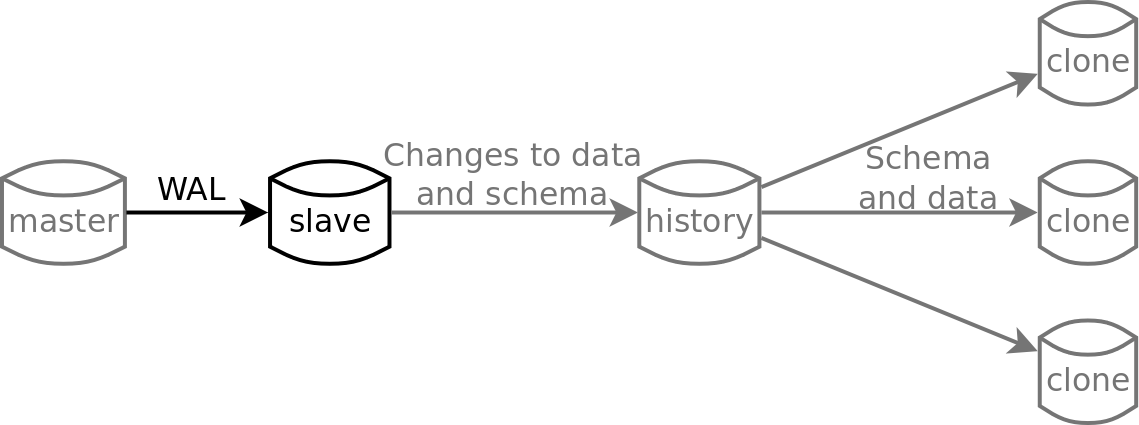
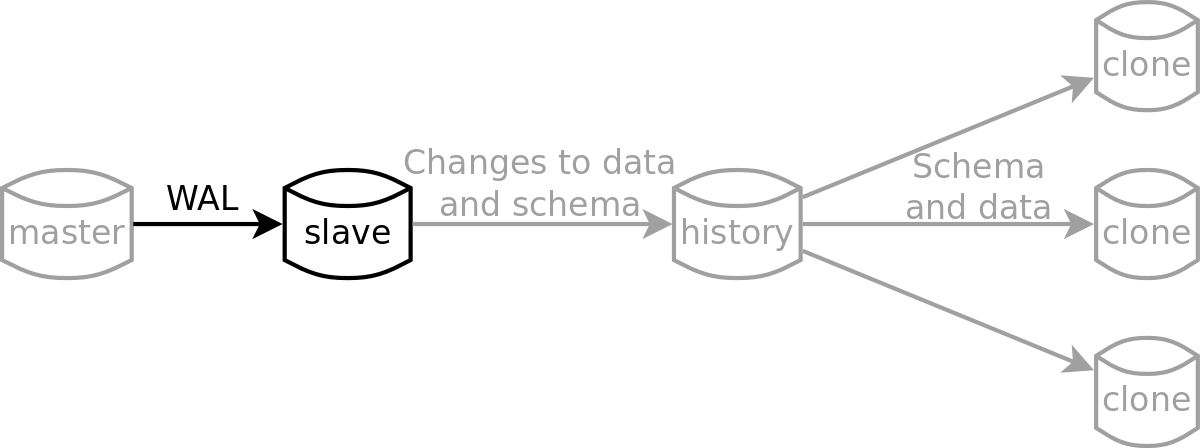
Fixing size, position and color of overview figs

diff --git a/architecture.tex b/architecture.tex
@@ -31,10 +31,10 @@ The reason for keeping old versions of the master database and the relationship 
 \section{The clone databases}
 \label{ch:architecture-clone-databases}
 
-\begin{wrapfigure}{r}{0.5\textwidth}
+\begin{wrapfigure}{r}{0.55\textwidth}
   \vspace{-20pt}
   \begin{center}
-    \includegraphics[width=0.48\textwidth]{img/architecture-clones}
+    \includegraphics[width=0.53\textwidth]{img/architecture-clones}
   \end{center}
   \vspace{-20pt}
   \caption{The clone part of the architecture}
@@ -75,10 +75,10 @@ The views, bookkeeping table, data tables and the view\_select function are desc
 \section{The history database}
 \label{ch:architecture-history-databases}
 
-\begin{wrapfigure}{r}{0.5\textwidth}
+\begin{wrapfigure}{r}{0.55\textwidth}
   \vspace{-20pt}
   \begin{center}
-    \includegraphics[width=0.48\textwidth]{img/architecture-history}
+    \includegraphics[width=0.53\textwidth]{img/architecture-history}
   \end{center}
   \vspace{-20pt}
   \caption{The history part of the architecture}
@@ -122,10 +122,10 @@ For an example of the schema of a data table see Figure \ref{fig:history-data-ta
 
 \subsection{Populating and updating the history database}
 
-\begin{wrapfigure}{r}{0.5\textwidth}
+\begin{wrapfigure}{r}{0.55\textwidth}
   \vspace{-20pt}
   \begin{center}
-    \includegraphics[width=0.48\textwidth]{img/architecture-slave}
+    \includegraphics[width=0.53\textwidth]{img/architecture-slave}
   \end{center}
   \vspace{-20pt}
   \caption{The slave part of the architecture}

diff --git a/implementation-history.tex b/implementation-history.tex
@@ -1,18 +1,18 @@
 \section{The history database}
 
-\begin{wrapfigure}{r}{0.5\textwidth}
+The history database contains information about the schema of the master database and a copy of its data.
+It contains multiple versions of the schema and data from the master, each transaction that alters the master database creates a history version.
+It is used as a reference when the user creates a new clone database; the schema of the clone is created according to the information in the history database and its data is copied from the history.
+
+\begin{wrapfigure}{r}{0.55\textwidth}
   \vspace{-20pt}
   \begin{center}
-    \includegraphics[width=0.48\textwidth]{img/architecture-history}
+    \includegraphics[width=0.53\textwidth]{img/architecture-history}
   \end{center}
   \vspace{-20pt}
   \caption{The history part of the architecture}
   \vspace{-10pt}
 \end{wrapfigure}
-
-The history database contains information about the schema of the master database and a copy of its data.
-It contains multiple versions of the schema and data from the master, each transaction that alters the master database creates a history version.
-It is used as a reference when the user creates a new clone database; the schema of the clone is created according to the information in the history database and its data is copied from the history.
 
 The history database is created when the slave instance has been configured.
 It is a standard Postgres database that must have the same major version as the master database.

diff --git a/implementation-clones.tex b/implementation-clones.tex
@@ -1,10 +1,10 @@
 \section{The clone databases}
 \label{ch:impementation-clones}
 
-\begin{wrapfigure}{r}{0.5\textwidth}
+\begin{wrapfigure}{r}{0.55\textwidth}
   \vspace{-20pt}
   \begin{center}
-    \includegraphics[width=0.48\textwidth]{img/architecture-clones}
+    \includegraphics[width=0.53\textwidth]{img/architecture-clones}
   \end{center}
   \vspace{-20pt}
   \caption{The clone part of the architecture}

diff --git a/implementation-slave.tex b/implementation-slave.tex
@@ -1,10 +1,10 @@
 \section{The slave instance}
 \label{ch:implementation-slave}
 
-\begin{wrapfigure}{r}{0.5\textwidth}
+\begin{wrapfigure}{r}{0.55\textwidth}
   \vspace{-20pt}
   \begin{center}
-    \includegraphics[width=0.48\textwidth]{img/architecture-slave}
+    \includegraphics[width=0.53\textwidth]{img/architecture-slave}
   \end{center}
   \vspace{-20pt}
   \caption{The slave part of the architecture}
